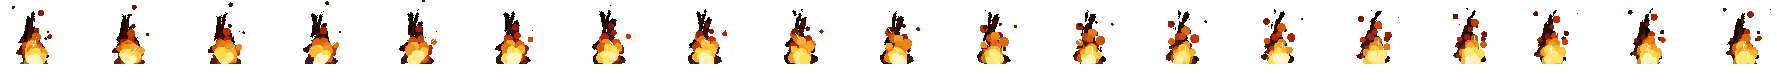
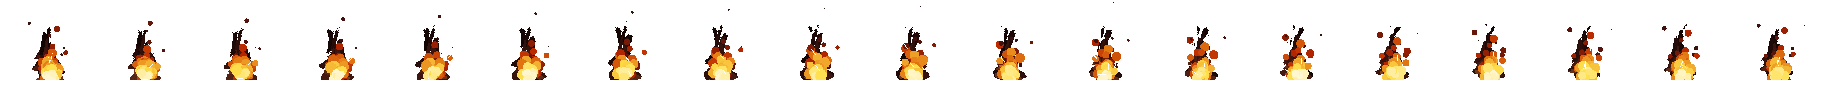
animate flame

Changed region(s): [[0.2786, 0.15, 0.9904, 0.825], [0.0, 0.15, 0.2476, 0.825]]

diff --git a/js/classes.js b/js/classes.js
@@ -1,25 +1,38 @@
 class Sprite {
-    constructor({position, imageSrc, scale = 1}) {
+    constructor({position, imageSrc, scale = 1, framesMax = 1}) {
         this.position = position
         this.width = 50
         this.height = 150
         this.image = new Image()
         this.image.src = imageSrc
         this.scale = scale
+        this.framesMax = framesMax
+        this.framesCurrent = 0
         }
 
     draw() {
         c.drawImage(
-            this.image, 
+            this.image,
+            this.framesCurrent * (this.image.width / this.framesMax),
+            0,
+            this.image.width / this.framesMax,
+            this.image.height,
+            
             this.position.x, 
             this.position.y, 
-            this.image.width * this.scale, 
+            (this.image.width / this.framesMax) * this.scale, 
             this.image.height * this.scale
             )
     }
 
     update () {
        this.draw()
+       if (this.framesCurrent < this.framesMax - 1) {
+       this.framesCurrent++
+       } else {
+        this.framesCurrent = 0
+       }
+
     }
 }
 

diff --git a/index.js b/index.js
@@ -18,7 +18,7 @@ const background = new Sprite({
 
 const fire = new Sprite({
     position: {
-        x: 400,
+        x: 350,
         y: 422,
     },
     imageSrc: './img/fire_wood.png',
@@ -27,11 +27,12 @@ const fire = new Sprite({
 
 const flame = new Sprite({
     position: {
-        x: 438,
-        y: 373,
+        x: 353,
+        y: 328,
     },
     imageSrc: './img/fire_flame.png',
-    scale: 2.3   
+    scale: 2.5,
+    framesMax: 19  
 })
 
 const player = new Fighter({
